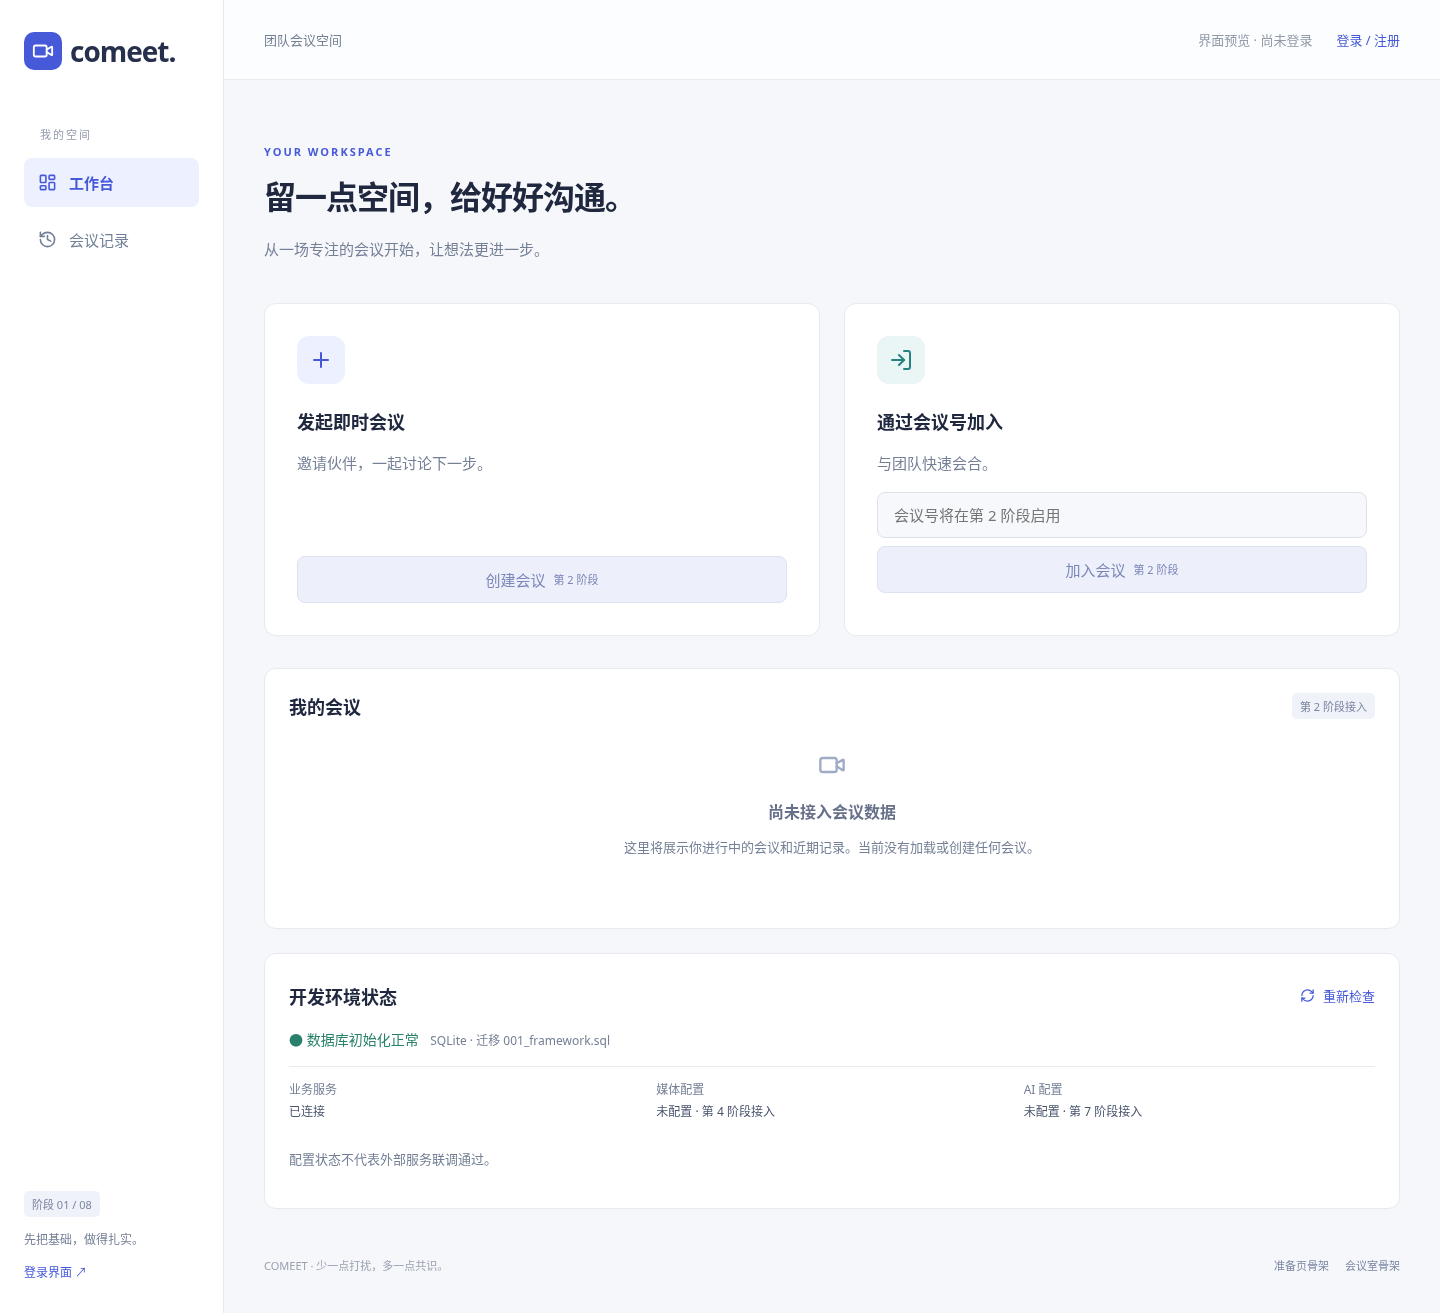
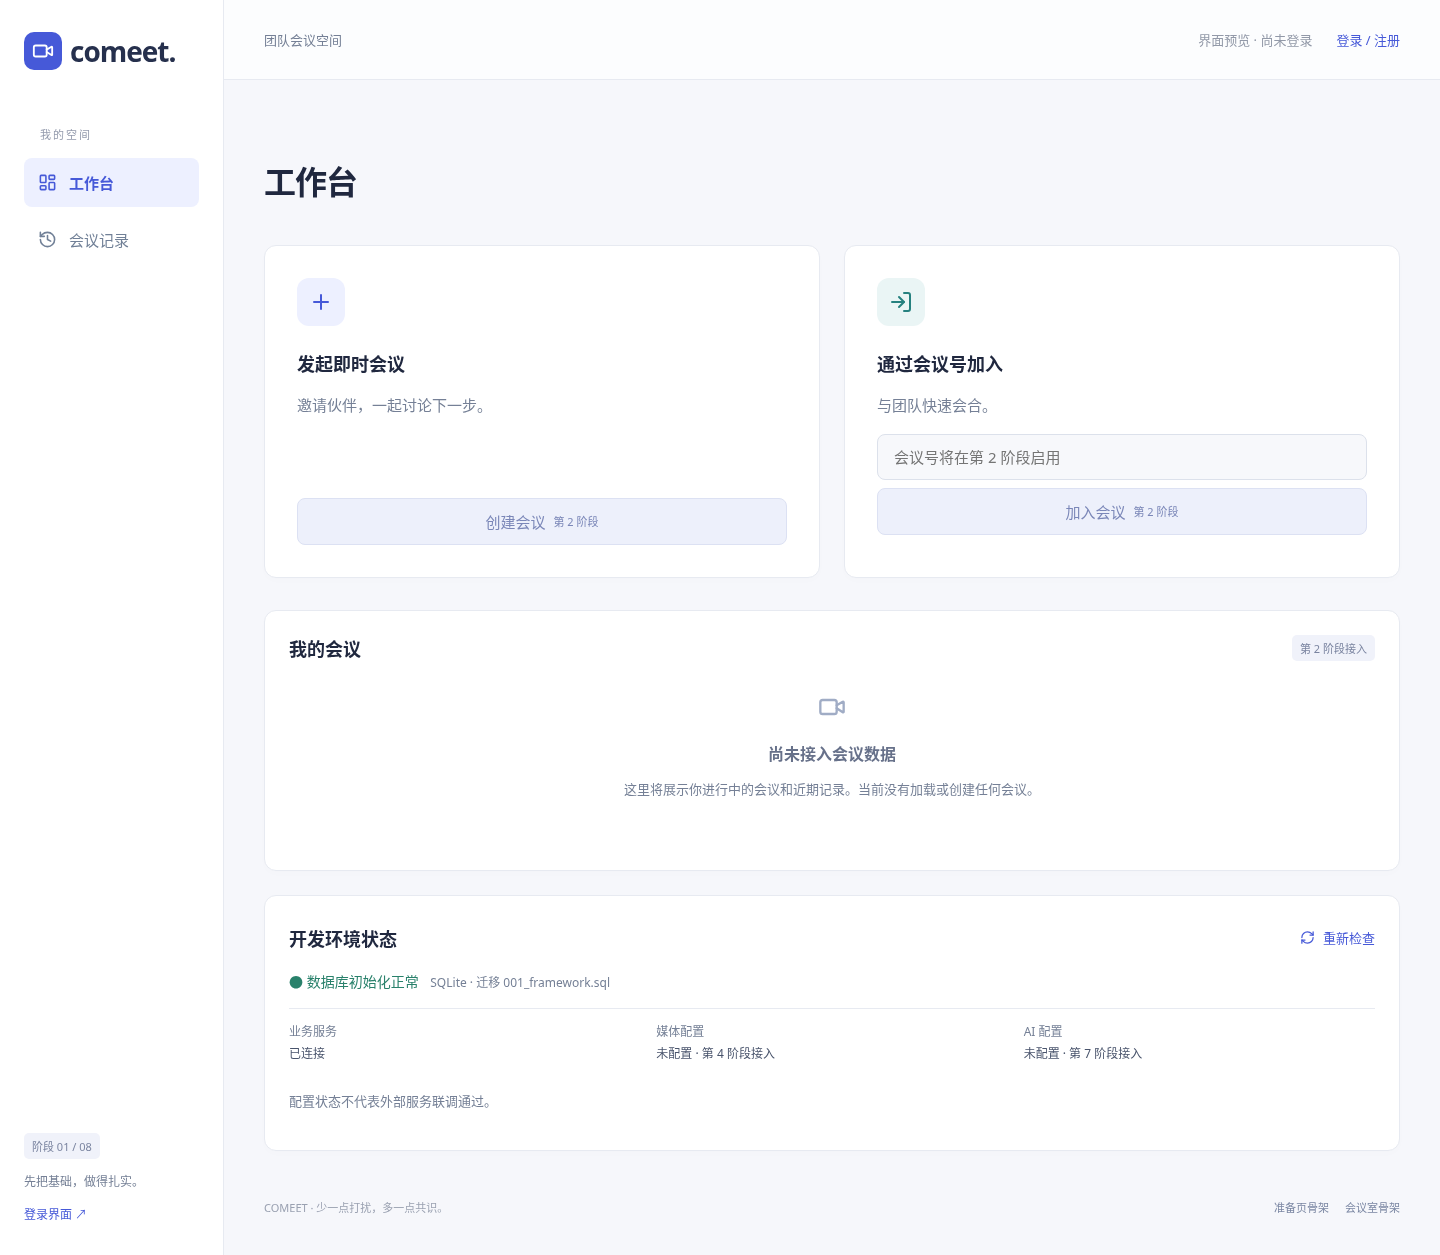
fix: 移除工作台宣传标语

diff --git a/week03/homework/comeet/web/src/pages/Dashboard.tsx b/week03/homework/comeet/web/src/pages/Dashboard.tsx
@@ -4,9 +4,7 @@ import { Disabled, Empty } from "../components/Common";
 export default function Dashboard() {
   return (
     <>
-      <div className="eyebrow">YOUR WORKSPACE</div>
-      <h1>留一点空间，给好好沟通。</h1>
-      <p className="subtitle">从一场专注的会议开始，让想法更进一步。</p>
+      <h1>工作台</h1>
       <div className="actions">
         <section className="card action-card">
           <div className="action-icon">

diff --git a/week03/homework/comeet/tests/e2e/stage1.spec.ts b/week03/homework/comeet/tests/e2e/stage1.spec.ts
@@ -1,6 +1,6 @@
 import { test, expect } from "../../web/node_modules/@playwright/test";
 const routes = [
-  ["/", "留一点空间，给好好沟通。"],
+  ["/", "发起即时会议"],
   ["/login", "欢迎回来"],
   ["/register", "创建 Comeet 账号"],
   ["/meetings/preview/prepare", "入会前，准备一下。"],

diff --git a/week03/homework/comeet/docs/阶段验收.md b/week03/homework/comeet/docs/阶段验收.md
@@ -76,3 +76,9 @@
 Pages 产物本地静态服务器验证：7 路由 × 4 宽度（1440/1024/768/390）共 28 项加载、刷新、无横向溢出检查通过；静态说明、没有假 health、没有 /api 请求、源码 ZIP 下载检查通过。GitHub API 与 github.io 请求被当前云网络策略拒绝（CONNECT 403），不能据此判断公网站点是否已发布，也未请求或记录个人 token。仓库 Pages 设置如未开启，需要用户选择 gh-pages 根目录后保存。
 
 推送结果：stage1-review 源码与 gh-pages 静态产物已实际推送成功，并通过远端 refs 确认。当前源码初始提交 d2cec74、静态初始提交 8bf7291；后续文档与 ZIP 同步提交只修复交付记录。公网发布状态未验证。详见 [网页测试](网页测试.md) 的仓库 Pages 开启步骤和可下载源码地址。用户实机及界面验收仍待确认。
+
+## 用户反馈：移除工作台标语
+
+用户要求实际运行时去掉“留一点空间，给好好沟通。”和“从一场专注的会议开始，让想法更进一步。”。已删除工作台宣传标题、副标题及英文眉题，仅保留功能性标题“工作台”，同时应用于本机运行和 Pages 静态预览。用户尚未确认第一阶段验收通过，继续停在本阶段。
+
+本次修改复测：默认前端类型检查/构建通过；四个宽度的首页加载/刷新、真实 health 与错误恢复共 6 项通过；桌面和手机截图已更新，并检查两句标语均不存在。
